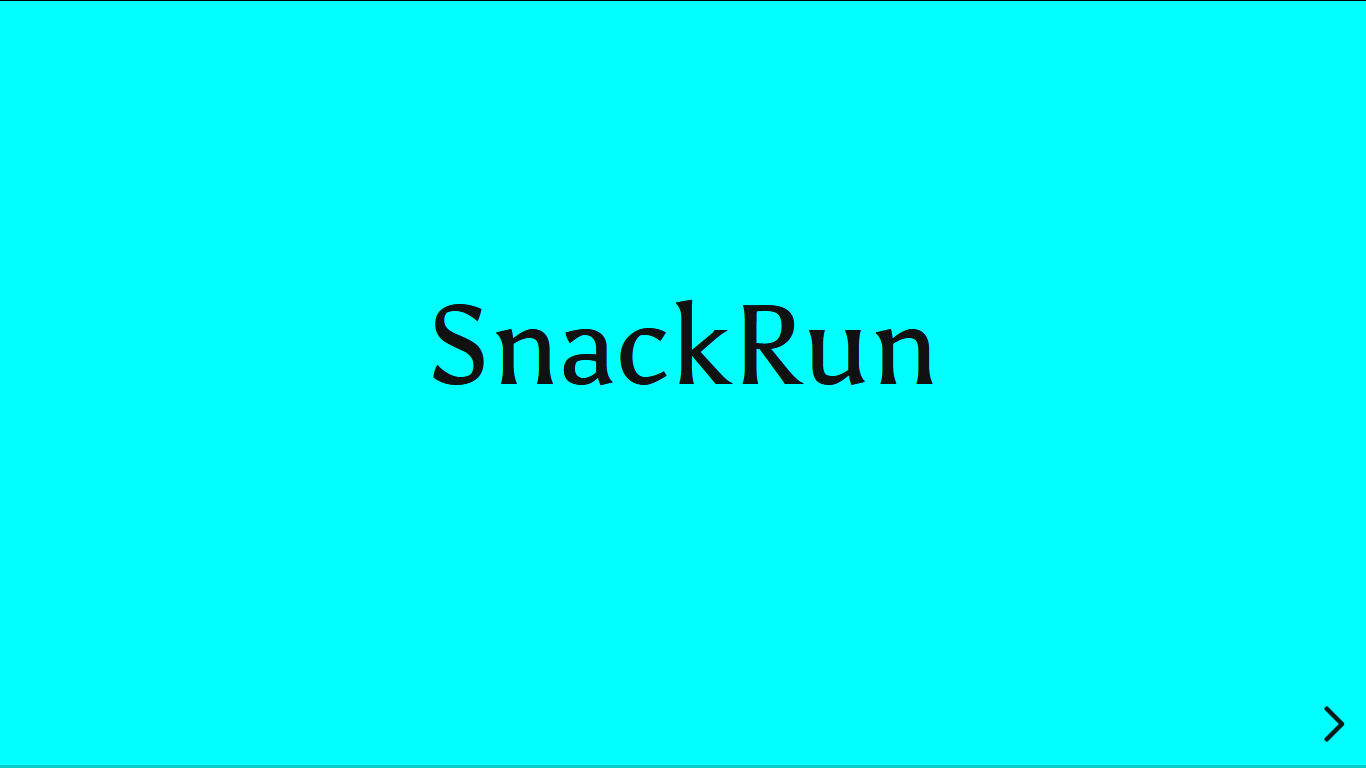
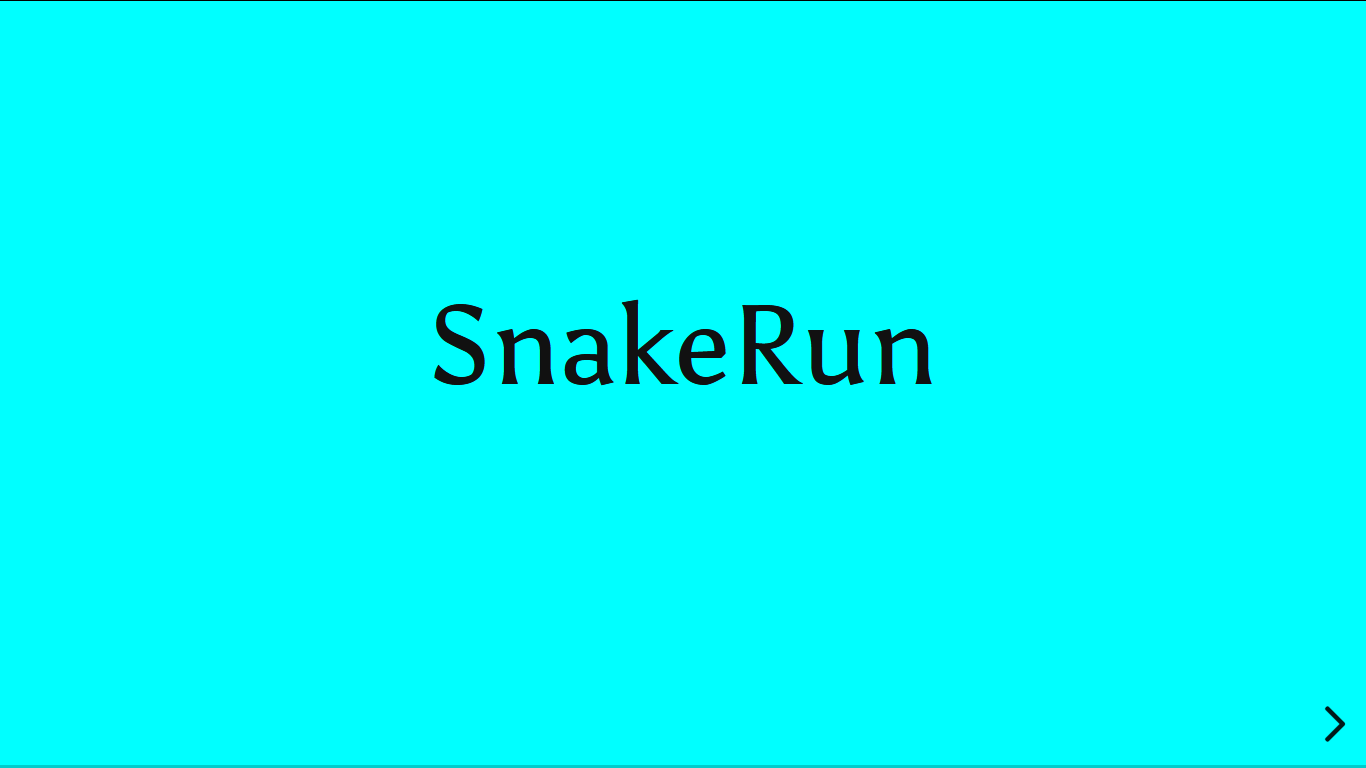
Add

Changed region(s): [[0.3997, 0.375, 0.6764, 0.5], [0.3382, 0.4375, 0.3997, 0.5], [0.3075, 0.4062, 0.3382, 0.4375]]

diff --git a/projects.html b/projects.html
@@ -69,42 +69,52 @@
           </div>
         </li>
         <li>
-          <img src="img/chaps_1x.jpg" alt="">
+          <img src="img/p11.png" alt="">
           <div class="caption">
             <div class="blur"></div>
             <div class="caption-text">
-              <a href="https://"><h1>Amazing Caption</h1></a>
+              <a href="https://github.com/MaclaurinYudhisthira/snakeRun"><h1>SnakeRun</h1></a>
+              <p>Oldschool Snake Game</p>
+            </div>
+          </div>
+        </li>
+        <li>
+          <img src="img/p14.png" alt="">
+          <div class="caption">
+            <div class="blur"></div>
+            <div class="caption-text">
+              <a href="http://kishandasondhi.tk/bt1"><h1>Amazing Website</h1></a>
+              <p>Made with Bootstrap</p>
+            </div>
+          </div>
+        </li>
+        <li>
+          <img src="img/p17.png" alt="">
+          <div class="caption">
+            <div class="blur"></div>
+            <div class="caption-text">
+              <a href="https://github.com/MaclaurinYudhisthira/DataStructres"><h1>Data Structures</h1></a>
+              <p>Data Structures Programs</p>
+            </div>
+          </div>
+        </li>
+        <li>
+          <img src="img/p20.png" alt="">
+          <div class="caption">
+            <div class="blur"></div>
+            <div class="caption-text">
+              <a href="https://github.com/MaclaurinYudhisthira/Ham-Spam-Detector"><h1>Ham Spam Detector</h1></a>
               <p>Whatever It Is - Always Awesome</p>
             </div>
           </div>
         </li>
         <li>
-          <img src="img/everycowboy_dribbbleready_shot.jpg" alt="">
+          <img src="img/p25.png" alt="">
           <div class="caption">
             <div class="blur"></div>
             <div class="caption-text">
-              <a href="https://"><h1>Amazing Caption</h1></a>
-              <p>Whatever It Is - Always Awesome</p>
-            </div>
-          </div>
-        </li>
-        <li>
-          <img src="img/ithinkican_01.jpg" alt="">
-          <div class="caption">
-            <div class="blur"></div>
-            <div class="caption-text">
-              <a href="https://"><h1>Amazing Caption</h1></a>
-              <p>Whatever It Is - Always Awesome</p>
-            </div>
-          </div>
-        </li>
-        <li>
-          <img src="img/chaps_1x.jpg" alt="">
-          <div class="caption">
-            <div class="blur"></div>
-            <div class="caption-text">
-              <a href="https://"><h1>Amazing Caption</h1></a>
-              <p>Whatever It Is - Always Awesome</p>
+              <a href="https://codepen.io/KishanDasondhi/full/GzOpbv"><h1>Landing Page</h1></a>
+              <p>Html5, CSS3, Js</p>
             </div>
           </div>
         </li>
@@ -139,42 +149,52 @@
           </div>
         </li>
         <li>
-          <img src="img/everycowboy_dribbbleready_shot.jpg" alt="">
+          <img src="img/p12.png" alt="">
           <div class="caption">
             <div class="blur"></div>
             <div class="caption-text">
-              <a href="https://"><h1>Amazing Caption</h1></a>
+              <a href="http://kishandasondhi.tk/ws1"><h1>Eduction Website</h1></a>
               <p>Whatever It Is - Always Awesome</p>
             </div>
           </div>
         </li>
         <li>
-          <img src="img/ithinkican_01.jpg" alt="">
+          <img src="img/p15.png" alt="">
           <div class="caption">
             <div class="blur"></div>
             <div class="caption-text">
-              <a href="https://"><h1>Amazing Caption</h1></a>
-              <p>Whatever It Is - Always Awesome</p>
+              <a href="https://github.com/MaclaurinYudhisthira/Rainfall_Prediction_using_regression"><h1>Rainfall Prediction</h1></a>
+              <p>Machine Learning Model</p>
             </div>
           </div>
         </li>
         <li>
-          <img src="img/chaps_1x.jpg" alt="">
+          <img src="img/p18.png" alt="">
           <div class="caption">
             <div class="blur"></div>
             <div class="caption-text">
-              <a href="https://"><h1>Amazing Caption</h1></a>
-              <p>Whatever It Is - Always Awesome</p>
+              <a href="https://github.com/MaclaurinYudhisthira/NodeMCU_Programs"><h1>NodeMCU Programs</h1></a>
+              <p>NodeMCU Tutorials</p>
             </div>
           </div>
         </li>
         <li>
-          <img src="img/everycowboy_dribbbleready_shot.jpg" alt="">
+          <img src="img/p21.png" alt="">
           <div class="caption">
             <div class="blur"></div>
             <div class="caption-text">
-              <a href="https://"><h1>Amazing Caption</h1></a>
-              <p>Whatever It Is - Always Awesome</p>
+              <a href="https://github.com/MaclaurinYudhisthira/MakeFile"><h1>Make File</h1></a>
+              <p>A Terminal based Text Editer</p>
+            </div>
+          </div>
+        </li>
+        <li>
+          <img src="img/p26.png" alt="">
+          <div class="caption">
+            <div class="blur"></div>
+            <div class="caption-text">
+              <a href="https://codepen.io/KishanDasondhi/full/LqbdPm"><h1>Landing Page - 2</h1></a>
+              <p>Html5, CSS3, Js</p>
             </div>
           </div>
         </li>
@@ -203,48 +223,48 @@
           <div class="caption">
             <div class="blur"></div>
             <div class="caption-text">
-              <a href="https://"><h1>Loan Calculater</h1></a>
+              <a href="https://codepen.io/KishanDasondhi/full/pXbVyN"><h1>Loan Calculater</h1></a>
               <p>Made with JS</p>
             </div>
           </div>
         </li>
         <li>
-          <img src="img/ithinkican_01.jpg" alt="">
+          <img src="img/p13.png" alt="">
           <div class="caption">
             <div class="blur"></div>
             <div class="caption-text">
-              <a href="https://"><h1>Amazing Caption</h1></a>
-              <p>Whatever It Is - Always Awesome</p>
+              <a href="https://github.com/MaclaurinYudhisthira/flask-lessons-A"><h1>Flask Lessons</h1></a>
+              <p>Flask Tutorials</p>
             </div>
           </div>
         </li>
         <li>
-          <img src="img/chaps_1x.jpg" alt="">
+          <img src="img/p16.png" alt="">
           <div class="caption">
             <div class="blur"></div>
             <div class="caption-text">
-              <a href="https://"><h1>Amazing Caption</h1></a>
-              <p>Whatever It Is - Always Awesome</p>
+              <a href="https://github.com/MaclaurinYudhisthira/ArduinoPrograms"><h1>Arduino Programs</h1></a>
+              <p>Arduino Uno Tutorials</p>
             </div>
           </div>
         </li>
         <li>
-          <img src="img/everycowboy_dribbbleready_shot.jpg" alt="">
+          <img src="img/p19.png" alt="">
           <div class="caption">
             <div class="blur"></div>
             <div class="caption-text">
-              <a href="https://"><h1>Amazing Caption</h1></a>
-              <p>Whatever It Is - Always Awesome</p>
+              <a href="https://github.com/MaclaurinYudhisthira/Helipro"><h1>Helipro</h1></a>
+              <p>A Fun Helicopter Game</p>
             </div>
           </div>
         </li>
         <li>
-          <img src="img/ithinkican_01.jpg" alt="">
+          <img src="img/p22.png" alt="">
           <div class="caption">
             <div class="blur"></div>
             <div class="caption-text">
-              <a href="https://"><h1>Amazing Caption</h1></a>
-              <p>Whatever It Is - Always Awesome</p>
+              <a href="https://github.com/MaclaurinYudhisthira/KNN-from-scratch"><h1>KNN Algorithm</h1></a>
+              <p>Implemented From Scratch</p>
             </div>
           </div>
         </li>

diff --git a/index.html b/index.html
@@ -35,9 +35,9 @@
                 <h1>Kishan Dasondhi</h1>
                 <p class="f">Technical Consultant | Web & Software Developer</p>
                 <ul class="icons">
-                    <li><a href="#" ><i class="fa fa-github"></i></a></li>
-                    <li><a href="#" ><i class="fa fa-linkedin"></i></a></li>
-                    <li><a href="#" ><i class="fa fa-instagram"></i></a></li>
+                    <li><a href="https://github.com/MaclaurinYudhisthira" ><i class="fa fa-github"></i></a></li>
+                    <li><a href="https://www.linkedin.com/in/kishan-dasondhi" ><i class="fa fa-linkedin"></i></a></li>
+                    <li><a href="https://www.instagram.com/kishandasondhi/" ><i class="fa fa-instagram"></i></a></li>
                 </ul>
             </div>
             <div class="b">
@@ -56,7 +56,12 @@
       <div class="container">
         <div class="a">
           <h3>Hello,</h3>
-          <p>Lorem ipsum Ut eiusmod ex magna sit dolor esse adipisicing minim ad cupidatat eu veniam nostrud mollit laboris sunt magna velit culpa consectetur nostrud consectetur labore sed do.<br>Lorem ipsum Nisi officia Duis irure voluptate dolor commodo pariatur occaecat aliquip adipisicing voluptate Ut in qui ea sint occaecat in commodo in in in incididunt ut sunt in Ut Duis in ut ex qui anim cupidatat cupidatat ex in non dolore labore ea amet cillum ea qui dolor nisi sed velit mollit exercitation ex fugiat labore in deserunt culpa laborum culpa anim dolore laboris amet irure mollit proident velit fugiat aute ea elit magna consequat qui officia quis elit Duis dolor esse cupidatat tempor proident voluptate aliqua ex cupidatat do eiusmod veniam irure laborum ut magna nostrud dolore ullamco commodo elit sit magna aliqua laborum veniam officia dolor. </p>
+          <p>Hello, this is Kishan Dasondhi.
+            I am a blogger, Web, and Software developer, and technical consultant. I also do projects on IoT, Data Analysis, and Machine Learning.
+            I am pursuing Bachelor of technology in computer science from Indore institute of science and technology.
+            <br>
+            I have been doing paid Programming and web development projects for the last one and a half year. I am pursuing the third year of my engineering degree. I also have experience in teaching mathematics and programming to school and college students. I run a blog for computer science named <a href="https://csjungle.com">csjungle.com</a>. I have done a lot of data analysis and machine learning projects, which you can see on my <a href="https://github.com/MaclaurinYudhisthira">GitHub account</a>.
+          </p>
           <a href="#footer" class="btn">Hire Me <i class="fa fa-handshake-o" aria-hidden="true"></i></a>
           <a href="#" class="btn">Download My Resume <i class="fa fa-certificate" aria-hidden="true"></i></a>
         </div>
@@ -179,7 +184,7 @@
           <div class="caption">
             <div class="blur"></div>
             <div class="caption-text">
-              <a href="https://csjungle.com"><h1>Vinay's Photography</h1></a>
+              <a href="https://vinaydasondhi.github.io/"><h1>Vinay's Photography</h1></a>
               <p>Photography Portfolio</p>
             </div>
           </div>
@@ -189,7 +194,7 @@
           <div class="caption">
             <div class="blur"></div>
             <div class="caption-text">
-              <a href="https://csjungle.com"><h1>MyTunes</h1></a>
+              <a href="http://kishanDasondhi.tk/myTunes"><h1>MyTunes</h1></a>
               <p>A Music Website Template</p>
             </div>
           </div>
